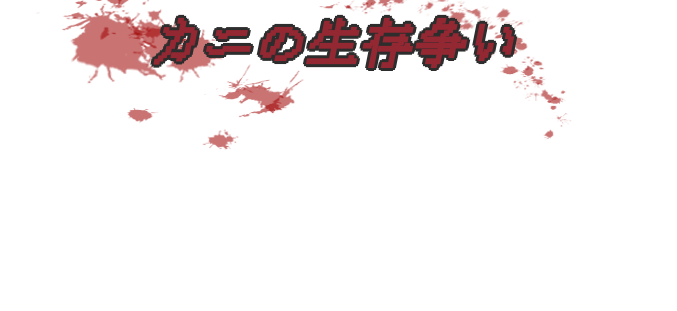
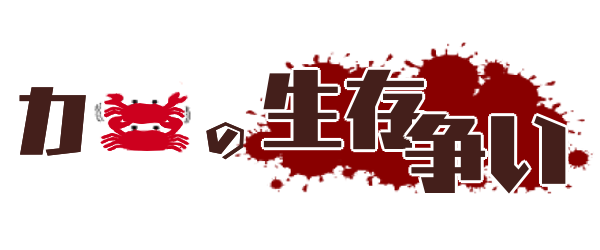
たいとる文字変えた

diff --git a/CrabFight/Assets/Script/TitleScene.cs b/CrabFight/Assets/Script/TitleScene.cs
@@ -20,6 +20,7 @@ public class TitleScene : MonoBehaviour
 
     bool startCrick;
     bool playerselect;
+    bool kanimove;
     // Start is called before the first frame update
     void Start()
     {
@@ -40,16 +41,29 @@ public class TitleScene : MonoBehaviour
 // Update is called once per frame
 void Update()
     {
+        /*if (kanimove == false)
+        {
+            if (kani1.localPosition.x < 7)
+            {
+                kani1.localPosition += new Vector3(1, 0, 0);
+
+            }
+            else if(kani1.localPosition.x > -7)
+            {
+                kani1.localPosition += new Vector3(-1, 0, 0);
+
+            }
+        }*/
         if (startCrick)
         {
-            if (title.localPosition.y < 400&& kani1.localPosition.y > -500 && kani2.localPosition.y > -500
-                && stage.localPosition.y > -400 && startbutton.localPosition.y > -200 && sousabutton.localPosition.y > -200)
+            if (title.localPosition.y < 500&& kani1.localPosition.y > -700 && kani2.localPosition.y > -700
+                && stage.localPosition.y > -600 && startbutton.localPosition.y > -200 && sousabutton.localPosition.y > -200)
             {
                 //背景以外全部消す
-                title.localPosition += new Vector3(0, 4, 0);
-                kani1.localPosition += new Vector3(0, -5, 0);
-                kani2.localPosition += new Vector3(0, -5, 0);
-                stage.localPosition += new Vector3(0, -4, 0);
+                title.localPosition += new Vector3(0, 5, 0);
+                kani1.localPosition += new Vector3(0, -7, 0);
+                kani2.localPosition += new Vector3(0, -7, 0);
+                stage.localPosition += new Vector3(0, -6, 0);
                 startbutton.localPosition += new Vector3(0, -2, 0);
                 sousabutton.localPosition += new Vector3(0, -2, 0);
 
@@ -83,6 +97,7 @@ void Update()
     public void StartClick()
     {
         startCrick = true;
+        kanimove = true;
     }
     //sousaボタンが押された場合
     public void SousaClick()
